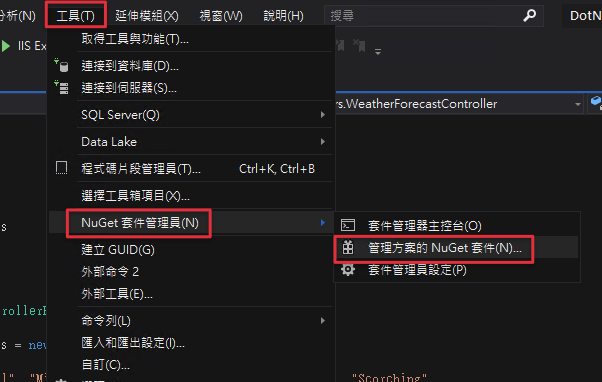
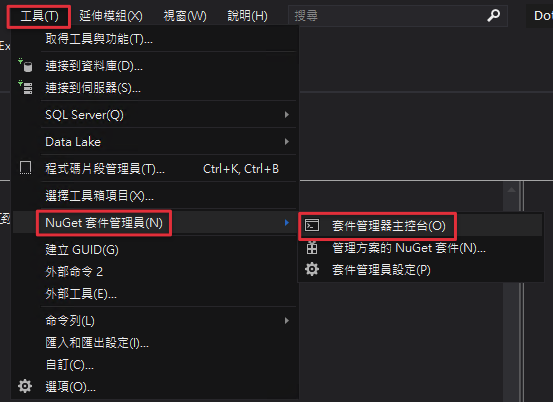
Site updated: 2019-10-03 13:30:25

diff --git a/2019/10/03/20190930-dotnetcore3beginner-3/index.html b/2019/10/03/20190930-dotnetcore3beginner-3/index.html
@@ -70,7 +70,7 @@
 
 
 
-  <meta name="keywords" content="DotNetCore,ASP.Net Core 3.0,C#,MVC,WebAPI,EF Core 3.0,Visual Studio,">
+  <meta name="keywords" content="DotNetCore,C#,MVC,WebAPI,Visual Studio,ASP.Net Core 3.0,EF Core 3.0,">
 
 
 
@@ -84,7 +84,7 @@
 
 
 <meta name="description" content="前言接續上一篇我們建立完資料庫及資料表，這一篇會帶大家了解MVC程式架構的基本概念，以及什麼是前後端分離，最後在實作的部分會帶大家在上次建立的API專案中安裝Entity Framework Core 3.0（EF Core 3.0），並在專案中透過EF Core建立Model，該Model會對應到資料庫的資料表結構。  這一系列的文章比較偏向讓大家看完能夠有一些比較基本的觀念，並且會附加比較多的">
-<meta name="keywords" content="DotNetCore,ASP.Net Core 3.0,C#,MVC,WebAPI,EF Core 3.0,Visual Studio">
+<meta name="keywords" content="DotNetCore,C#,MVC,WebAPI,Visual Studio,ASP.Net Core 3.0,EF Core 3.0">
 <meta property="og:type" content="article">
 <meta property="og:title" content="【ASP.Net Core 3.0應用程式開發-3】什麼是MVC？什麼是前後端分離？ ft.安裝EF Core 3.0、初始化資料模型對應">
 <meta property="og:url" content="https://kevin8656.github.io/2019/10/03/20190930-dotnetcore3beginner-3/index.html">
@@ -97,21 +97,17 @@
 <meta property="og:image" content="https://kevin8656.github.io/2019/10/03/20190930-dotnetcore3beginner-3/1.png">
 <meta property="og:image" content="https://kevin8656.github.io/2019/10/03/20190930-dotnetcore3beginner-3/5.png">
 <meta property="og:image" content="https://kevin8656.github.io/2019/10/03/20190930-dotnetcore3beginner-3/6.png">
+<meta property="og:image" content="https://kevin8656.github.io/2019/10/03/20190930-dotnetcore3beginner-3/15.png">
 <meta property="og:image" content="https://kevin8656.github.io/2019/10/03/20190930-dotnetcore3beginner-3/7.png">
 <meta property="og:image" content="https://kevin8656.github.io/2019/10/03/20190930-dotnetcore3beginner-3/8.png">
 <meta property="og:image" content="https://kevin8656.github.io/2019/10/03/20190930-dotnetcore3beginner-3/9.png">
 <meta property="og:image" content="https://kevin8656.github.io/2019/10/03/20190930-dotnetcore3beginner-3/10.png">
-<meta property="og:image" content="https://kevin8656.github.io/2019/10/03/20190930-dotnetcore3beginner-3/11.png">
-<meta property="og:image" content="https://kevin8656.github.io/2019/10/03/20190930-dotnetcore3beginner-3/12.png">
-<meta property="og:image" content="https://kevin8656.github.io/2019/10/03/20190930-dotnetcore3beginner-3/13.png">
-<meta property="og:image" content="https://kevin8656.github.io/2019/10/03/20190930-dotnetcore3beginner-3/17.png">
 <meta property="og:image" content="https://kevin8656.github.io/2019/10/03/20190930-dotnetcore3beginner-3/14.png">
-<meta property="og:image" content="https://kevin8656.github.io/2019/10/03/20190930-dotnetcore3beginner-3/15.png">
 <meta property="og:image" content="https://kevin8656.github.io/2019/10/03/20190930-dotnetcore3beginner-3/18.png">
 <meta property="og:image" content="https://kevin8656.github.io/2019/10/03/20190930-dotnetcore3beginner-3/19.png">
 <meta property="og:image" content="https://kevin8656.github.io/2019/10/03/20190930-dotnetcore3beginner-3/20.png">
 <meta property="og:image" content="https://kevin8656.github.io/2019/10/03/20190930-dotnetcore3beginner-3/21.png">
-<meta property="og:updated_time" content="2019-10-02T17:24:18.426Z">
+<meta property="og:updated_time" content="2019-10-03T05:30:14.119Z">
 <meta name="twitter:card" content="summary">
 <meta name="twitter:title" content="【ASP.Net Core 3.0應用程式開發-3】什麼是MVC？什麼是前後端分離？ ft.安裝EF Core 3.0、初始化資料模型對應">
 <meta name="twitter:description" content="前言接續上一篇我們建立完資料庫及資料表，這一篇會帶大家了解MVC程式架構的基本概念，以及什麼是前後端分離，最後在實作的部分會帶大家在上次建立的API專案中安裝Entity Framework Core 3.0（EF Core 3.0），並在專案中透過EF Core建立Model，該Model會對應到資料庫的資料表結構。  這一系列的文章比較偏向讓大家看完能夠有一些比較基本的觀念，並且會附加比較多的">
@@ -477,62 +473,55 @@
 </ol>
 <p><img src="5.png" alt="5"></p>
 <ol start="2">
-<li>接下來選上面的「工具 -&gt; NuGet套件管理員 -&gt; 管理方案的NuGet套件」，開啟圖形化的NuGet套件安裝管理員（上方的「套件管理主控台」則是指令輸入畫面，可以使用指令安裝套件）</li>
+<li>因為.Net Core算是跨平台的專案，因此我會比較多讓大家使用指令模式來進行操作。接下來選上面的「工具 -&gt; NuGet套件管理員 -&gt; 套件管理器主控台」，開啟指令的NuGet套件安裝管理員（下方的「管理方案的NuGet套件」則是圖形化介面，可以比較方便管理套件）</li>
 </ol>
 <blockquote>
 <p>NuGet：是Microsoft 支援的共用程式碼機制，它定義了如何建立、裝載和取用.NET中的「套件」。</p>
 </blockquote>
 <p><img src="6.png" alt="6"></p>
 <ol start="3">
-<li>看到NuGet的圖形化管理介面之後，點擊「瀏覽」分頁，並且輸入「Microsoft.EntityFrameworkCore.SqlServer」，找到該套件之後點擊它，右邊會顯示此套件的資訊</li>
+<li>開啟後可以在下方的視窗看到如下畫面，底下「PM&gt;」就是要輸入指令的位置</li>
 </ol>
-<p><img src="7.png" alt="7"></p>
+<p><img src="15.png" alt="15"></p>
 <ol start="4">
-<li>在右邊視窗勾選要安裝此套件的專案，並且點選「安裝」</li>
+<li><p>接下來輸入以下NuGet的指令，安裝</p>
+<p>「Microsoft.EntityFrameworkCore.SqlServer」套件</p>
+</li>
+</ol>
+<figure class="highlight bash"><table><tr><td class="gutter"><pre><span class="line">1</span><br></pre></td><td class="code"><pre><span class="line">PM&gt; Install-Package Microsoft.EntityFrameworkCore.SqlServer -Version 3.0.0</span><br></pre></td></tr></table></figure>
+
+<p><img src="7.png" alt="7"></p>
+<blockquote>
+<p>要注意，網路上查到有些指令是使用<code>dotnet add package</code>指令來安裝的，該指令是要用作業系統本身的命令列工具（如Windows 的命令提示字元）去安裝的，在NuGet視窗中輸入此指令會不能成功執行唷～！</p>
+</blockquote>
+<ol start="5">
+<li>等待安裝過程跑完之後，可以點開右邊「方案總管」中的「相依性-&gt;套件」，就可以看到剛剛安裝的「Microsoft.EntityFrameworkCore.SqlServer」套件了</li>
 </ol>
 <p><img src="8.png" alt="8"></p>
-<ol start="5">
-<li>等待套件安裝完成</li>
-</ol>
-<p><img src="9.png" alt="9"></p>
 <ol start="6">
-<li>會出現以下提示，勾選「不要再顯示這個訊息」，並點擊「確定」</li>
+<li>接下來以同樣步驟安裝「Microsoft.EntityFrameworkCore.Tools」，請輸入以下指令：</li>
+</ol>
+<figure class="highlight bash"><table><tr><td class="gutter"><pre><span class="line">1</span><br></pre></td><td class="code"><pre><span class="line">PM&gt; Install-Package Microsoft.EntityFrameworkCore.Tools -Version 3.0.0</span><br></pre></td></tr></table></figure>
+
+<p><img src="9.png" alt="9"></p>
+<ol start="7">
+<li>右邊「方案總管」中的「相依性-&gt;套件」就會有兩個套件安裝了</li>
 </ol>
 <p><img src="10.png" alt="10"></p>
-<ol start="7">
-<li>出現「接受授權」的提示，點擊「我接受」</li>
-</ol>
-<p><img src="11.png" alt="11"></p>
-<ol start="8">
-<li>安裝完成後，套件管理的右邊視窗就會顯示現在安裝的版本，確認一下是不是EF Core 「3.0.0」版本</li>
-</ol>
-<p><img src="12.png" alt="12"></p>
-<ol start="9">
-<li>而在右邊「方案總管」視窗也可以看到，在「相依性-&gt;套件」的資料夾中也有寫已安裝的套件有哪些</li>
-</ol>
-<p><img src="13.png" alt="13"></p>
-<ol start="10">
-<li>以相同的步驟再安裝「Microsoft.EntityFrameworkCore.Tools」套件</li>
-</ol>
-<p><img src="17.png" alt="17"></p>
 <h3 id="透過EF-Core-3建立模型對應"><a href="#透過EF-Core-3建立模型對應" class="headerlink" title="透過EF Core 3建立模型對應"></a>透過EF Core 3建立模型對應</h3><p>我們可以透過EF Core套件，幫我們自動在程式中建立資料模型，對應到我們第二堂課所建立的資料庫資料表，而接下來就要帶大家了解一下怎麼做到這件事。</p>
 <ol>
 <li>首先點擊上方「工具」，找到「NuGet套件管理員」並選擇「套件管理主控台」，準備用下指令的方式對應資料庫</li>
 </ol>
 <p><img src="14.png" alt="14"></p>
 <ol start="2">
-<li>開啟後可以在下方的視窗看到如下畫面，底下「PM&gt;」就是要輸入指令的位置</li>
+<li>接下來輸入以下套件的指令，建立實體的資料對應模型，對應到先前建立的資料庫與資料表：</li>
 </ol>
-<p><img src="15.png" alt="15"></p>
-<ol start="3">
-<li>接下來輸入以下指令，建立實體的資料對應模型，對應到先前建立的資料庫與資料表：</li>
-</ol>
-<figure class="highlight shell"><table><tr><td class="gutter"><pre><span class="line">1</span><br></pre></td><td class="code"><pre><span class="line">Scaffold-DbContext "Data Source=localhost;user id=dotnetcore;password=dotnetcore; persist security info=True; Initial Catalog=dotnetcore;" Microsoft.EntityFrameworkCore.SqlServer -OutputDir Models -Force</span><br></pre></td></tr></table></figure>
+<figure class="highlight bash"><table><tr><td class="gutter"><pre><span class="line">1</span><br></pre></td><td class="code"><pre><span class="line">PM&gt; Scaffold-DbContext <span class="string">"Data Source=localhost;user id=dotnetcore;password=dotnetcore; persist security info=True; Initial Catalog=dotnetcore;"</span> Microsoft.EntityFrameworkCore.SqlServer -OutputDir Models -Force</span><br></pre></td></tr></table></figure>
 
 <p><img src="18.png" alt="18"></p>
 <p>指令的解釋如下，不知道的人可以看，或者直接去<a href="https://docs.microsoft.com/zh-tw/ef/core/miscellaneous/cli/powershell" target="_blank" rel="noopener">官方文件</a>看一下</p>
 <ul>
-<li>Scaffold-DbContext：EFCore中產生資料實體模型的指令</li>
+<li>Scaffold-DbContext：「EFCore Tools」套件中用來產生資料實體模型的指令</li>
 <li>Data Source：資料庫的來源，這邊是輸入本機IP，把專案架上伺服器時會需要修改</li>
 <li>user id：資料庫登入角色的名稱</li>
 <li>password：資料庫登入角色的密碼</li>
@@ -542,11 +531,11 @@
 <li>-OutputDir：將檔案放入目錄。 路徑是相對於專案目錄，這邊要把建立出的實體資料模型放入「Models」資料夾中</li>
 <li>-Force：覆寫現有的檔案。</li>
 </ul>
-<ol start="4">
+<ol start="3">
 <li>完成後就會看到右邊的檔案目錄多了「Models」資料夾，並且裡面多出了「dotnetcoreContext.cs」以及「Member.cs」</li>
 </ol>
 <p><img src="19.png" alt="19"></p>
-<ol start="5">
+<ol start="4">
 <li>以下解釋一下剛剛自動對應產生的兩個檔案分別的功能：</li>
 </ol>
 <ul>
@@ -558,7 +547,7 @@
 </li>
 </ul>
 <p>看到以上畫面就代表你成功安裝了EF Core 3.0套件，並且也透過指令將資料庫與資料表對應到程式碼中，未來如果資料庫結構有更新時，只要打開「NuGet套件管理器主控台」，再次輸入以下指令即可重新對應並覆蓋程式碼囉：</p>
-<figure class="highlight shell"><table><tr><td class="gutter"><pre><span class="line">1</span><br></pre></td><td class="code"><pre><span class="line">Scaffold-DbContext "Data Source=localhost;user id=dotnetcore;password=dotnetcore; persist security info=True; Initial Catalog=dotnetcore;" Microsoft.EntityFrameworkCore.SqlServer -OutputDir Models -Force</span><br></pre></td></tr></table></figure>
+<figure class="highlight bash"><table><tr><td class="gutter"><pre><span class="line">1</span><br></pre></td><td class="code"><pre><span class="line">PM&gt; Scaffold-DbContext <span class="string">"Data Source=localhost;user id=dotnetcore;password=dotnetcore; persist security info=True; Initial Catalog=dotnetcore;"</span> Microsoft.EntityFrameworkCore.SqlServer -OutputDir Models -Force</span><br></pre></td></tr></table></figure>
 
 <hr>
 <p>下一篇將帶大家建立MVC + Service的程式架構，並且寫一個簡單的會員子系統操作給大家當做示範。</p>
@@ -581,17 +570,17 @@
           
             <a href="/tags/DotNetCore/" rel="tag"># DotNetCore</a>
           
-            <a href="/tags/ASP-Net-Core-3-0/" rel="tag"># ASP.Net Core 3.0</a>
-          
             <a href="/tags/C/" rel="tag"># C#</a>
           
             <a href="/tags/MVC/" rel="tag"># MVC</a>
           
             <a href="/tags/WebAPI/" rel="tag"># WebAPI</a>
           
-            <a href="/tags/EF-Core-3-0/" rel="tag"># EF Core 3.0</a>
-          
             <a href="/tags/Visual-Studio/" rel="tag"># Visual Studio</a>
+          
+            <a href="/tags/ASP-Net-Core-3-0/" rel="tag"># ASP.Net Core 3.0</a>
+          
+            <a href="/tags/EF-Core-3-0/" rel="tag"># EF Core 3.0</a>
           
         </div>
       

diff --git a/2019/09/29/20190929-dotnetcore3beginner-2/index.html b/2019/09/29/20190929-dotnetcore3beginner-2/index.html
@@ -70,7 +70,7 @@
 
 
 
-  <meta name="keywords" content="DotNetCore,ASP.Net Core 3.0,C#,MVC,WebAPI,Visual Studio,SQL Server,">
+  <meta name="keywords" content="DotNetCore,C#,MVC,WebAPI,Visual Studio,ASP.Net Core 3.0,SQL Server,">
 
 
 
@@ -84,7 +84,7 @@
 
 
 <meta name="description" content="前言接續上一篇API的專案建立教學，這一篇會帶大家使用SQL Server建立資料庫與資料表，為我們下一篇的EF Core 3.0資料對應做準備。  這一系列的文章比較偏向讓大家看完能夠有一些比較基本的觀念，並且會附加比較多的實作教學，因此可能解釋一些觀念的時候，不會用太精細的方式來與大家做探討，請大家多多見諒！主要想讓大家對觀念的理解可以剛好輔助實作就好，如果對觀念有更深的興趣歡迎尋找更多文章，">
-<meta name="keywords" content="DotNetCore,ASP.Net Core 3.0,C#,MVC,WebAPI,Visual Studio,SQL Server">
+<meta name="keywords" content="DotNetCore,C#,MVC,WebAPI,Visual Studio,ASP.Net Core 3.0,SQL Server">
 <meta property="og:type" content="article">
 <meta property="og:title" content="【ASP.Net Core 3.0應用程式開發-2】逐步建立資料庫與資料表">
 <meta property="og:url" content="https://kevin8656.github.io/2019/09/29/20190929-dotnetcore3beginner-2/index.html">
@@ -623,8 +623,6 @@
           
             <a href="/tags/DotNetCore/" rel="tag"># DotNetCore</a>
           
-            <a href="/tags/ASP-Net-Core-3-0/" rel="tag"># ASP.Net Core 3.0</a>
-          
             <a href="/tags/C/" rel="tag"># C#</a>
           
             <a href="/tags/MVC/" rel="tag"># MVC</a>
@@ -632,6 +630,8 @@
             <a href="/tags/WebAPI/" rel="tag"># WebAPI</a>
           
             <a href="/tags/Visual-Studio/" rel="tag"># Visual Studio</a>
+          
+            <a href="/tags/ASP-Net-Core-3-0/" rel="tag"># ASP.Net Core 3.0</a>
           
             <a href="/tags/SQL-Server/" rel="tag"># SQL Server</a>
           

diff --git a/2019/09/28/20190928-dotnetcore3beginner/index.html b/2019/09/28/20190928-dotnetcore3beginner/index.html
@@ -70,7 +70,7 @@
 
 
 
-  <meta name="keywords" content="DotNetCore,ASP.Net Core 3.0,C#,MVC,WebAPI,Visual Studio,">
+  <meta name="keywords" content="DotNetCore,C#,MVC,WebAPI,Visual Studio,ASP.Net Core 3.0,">
 
 
 
@@ -84,7 +84,7 @@
 
 
 <meta name="description" content="前言以前剛開始寫程式的時候，第一個接觸到的程式語言就是C#，使用的框架則是ASP.Net Framework，當時整天抱著一本C# MVC的書每天K，K到最後都有點昏頭了。而最近剛好開始有機會分享自己所學，因此想要從頭開始整理一下自己在.Net學習的過程，並且將這些歷程中的重點分享給身邊想學的人。 這幾年來除了.Net Framework，很多人也開始使用微軟另一個開發框架.Net Core，而這">
-<meta name="keywords" content="DotNetCore,ASP.Net Core 3.0,C#,MVC,WebAPI,Visual Studio">
+<meta name="keywords" content="DotNetCore,C#,MVC,WebAPI,Visual Studio,ASP.Net Core 3.0">
 <meta property="og:type" content="article">
 <meta property="og:title" content="【ASP.Net Core 3.0應用程式開發-1】什麼是.Net Core? ft.基礎API專案建立">
 <meta property="og:url" content="https://kevin8656.github.io/2019/09/28/20190928-dotnetcore3beginner/index.html">
@@ -495,8 +495,6 @@
           
             <a href="/tags/DotNetCore/" rel="tag"># DotNetCore</a>
           
-            <a href="/tags/ASP-Net-Core-3-0/" rel="tag"># ASP.Net Core 3.0</a>
-          
             <a href="/tags/C/" rel="tag"># C#</a>
           
             <a href="/tags/MVC/" rel="tag"># MVC</a>
@@ -504,6 +502,8 @@
             <a href="/tags/WebAPI/" rel="tag"># WebAPI</a>
           
             <a href="/tags/Visual-Studio/" rel="tag"># Visual Studio</a>
+          
+            <a href="/tags/ASP-Net-Core-3-0/" rel="tag"># ASP.Net Core 3.0</a>
           
         </div>
       

diff --git a/2019/07/13/20190713-DotNetCore-GettingStarted-1/index.html b/2019/07/13/20190713-DotNetCore-GettingStarted-1/index.html
@@ -70,7 +70,7 @@
 
 
 
-  <meta name="keywords" content="DotNetCore,C#,VisualStudio,MVC,WebAPI,.NetCore,">
+  <meta name="keywords" content="DotNetCore,.NetCore,C#,VisualStudio,MVC,WebAPI,">
 
 
 
@@ -84,7 +84,7 @@
 
 
 <meta name="description" content="前言 專案建得好，續寫維護沒煩惱——-好懶得寫環境安裝XD  因為公司最近的需求，我們要用 .NET Core來建構一個MVC架構的WEB API專案">
-<meta name="keywords" content="DotNetCore,C#,VisualStudio,MVC,WebAPI,.NetCore">
+<meta name="keywords" content="DotNetCore,.NetCore,C#,VisualStudio,MVC,WebAPI">
 <meta property="og:type" content="article">
 <meta property="og:title" content="【.Net Core2.2】使用ASP.NET Core 建構WEB API專案 ft.環境安裝">
 <meta property="og:url" content="https://kevin8656.github.io/2019/07/13/20190713-DotNetCore-GettingStarted-1/index.html">
@@ -494,6 +494,8 @@
           
             <a href="/tags/DotNetCore/" rel="tag"># DotNetCore</a>
           
+            <a href="/tags/NetCore/" rel="tag"># .NetCore</a>
+          
             <a href="/tags/C/" rel="tag"># C#</a>
           
             <a href="/tags/VisualStudio/" rel="tag"># VisualStudio</a>
@@ -501,8 +503,6 @@
             <a href="/tags/MVC/" rel="tag"># MVC</a>
           
             <a href="/tags/WebAPI/" rel="tag"># WebAPI</a>
-          
-            <a href="/tags/NetCore/" rel="tag"># .NetCore</a>
           
         </div>
       

diff --git a/about/index.html b/about/index.html
@@ -75,8 +75,6 @@
 
 
 
-  
-
 
   <link rel="alternate" href="/atom.xml" title="凱文寫程式 | •́ ▾ •̀ |" type="application/atom+xml">
 

diff --git a/categories/index.html b/categories/index.html
@@ -75,6 +75,8 @@
 
 
 
+  
+
 
   <link rel="alternate" href="/atom.xml" title="凱文寫程式 | •́ ▾ •̀ |" type="application/atom+xml">
 
